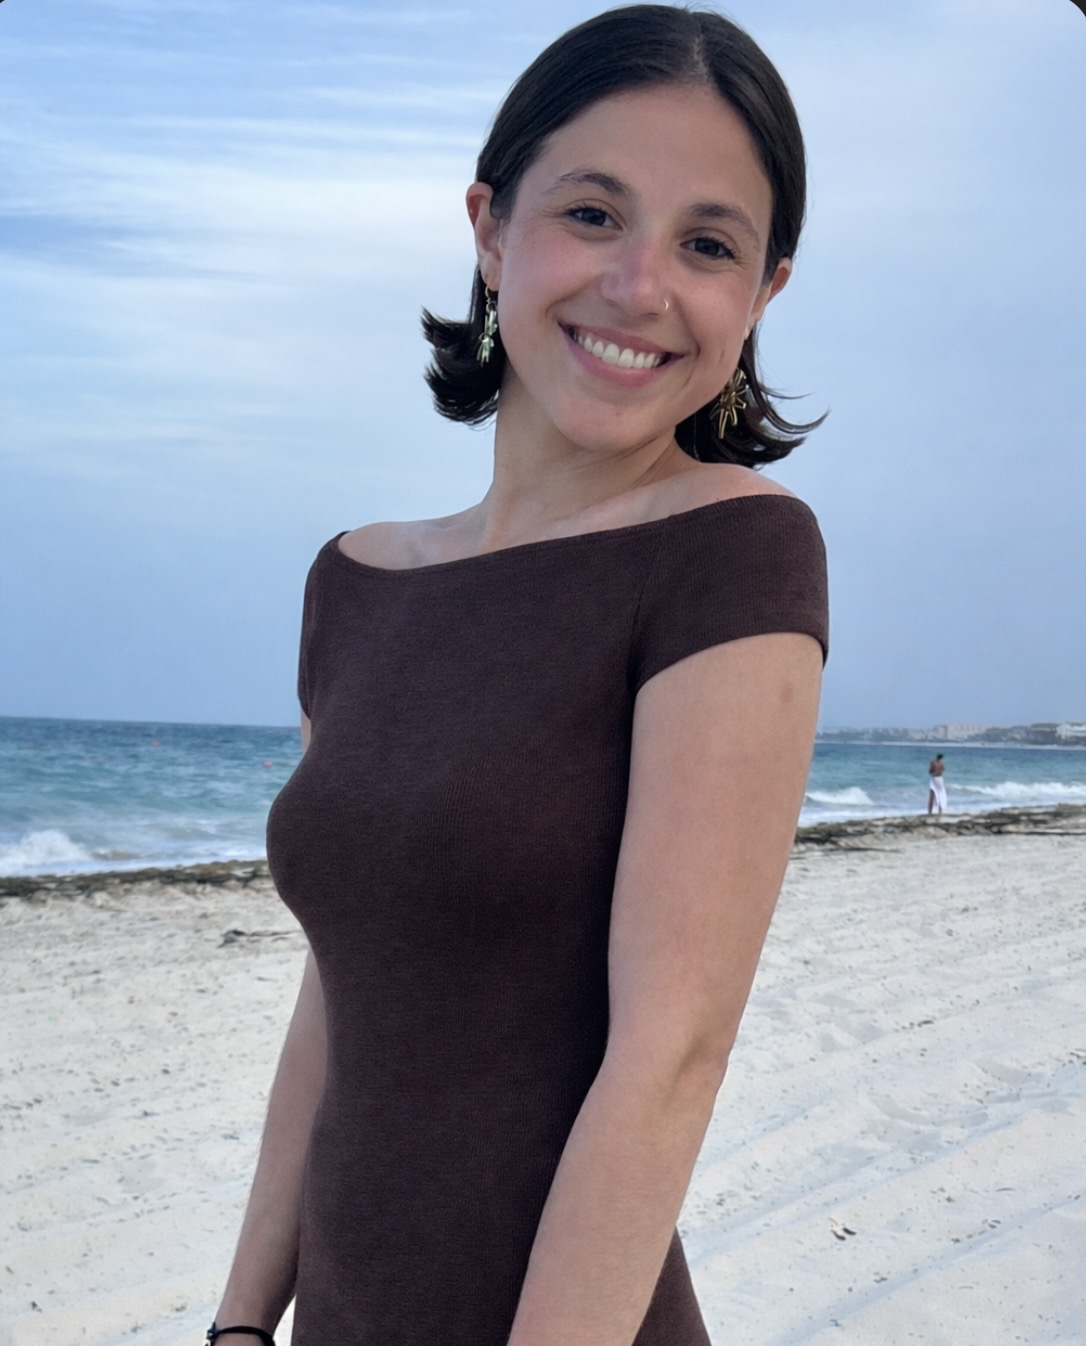
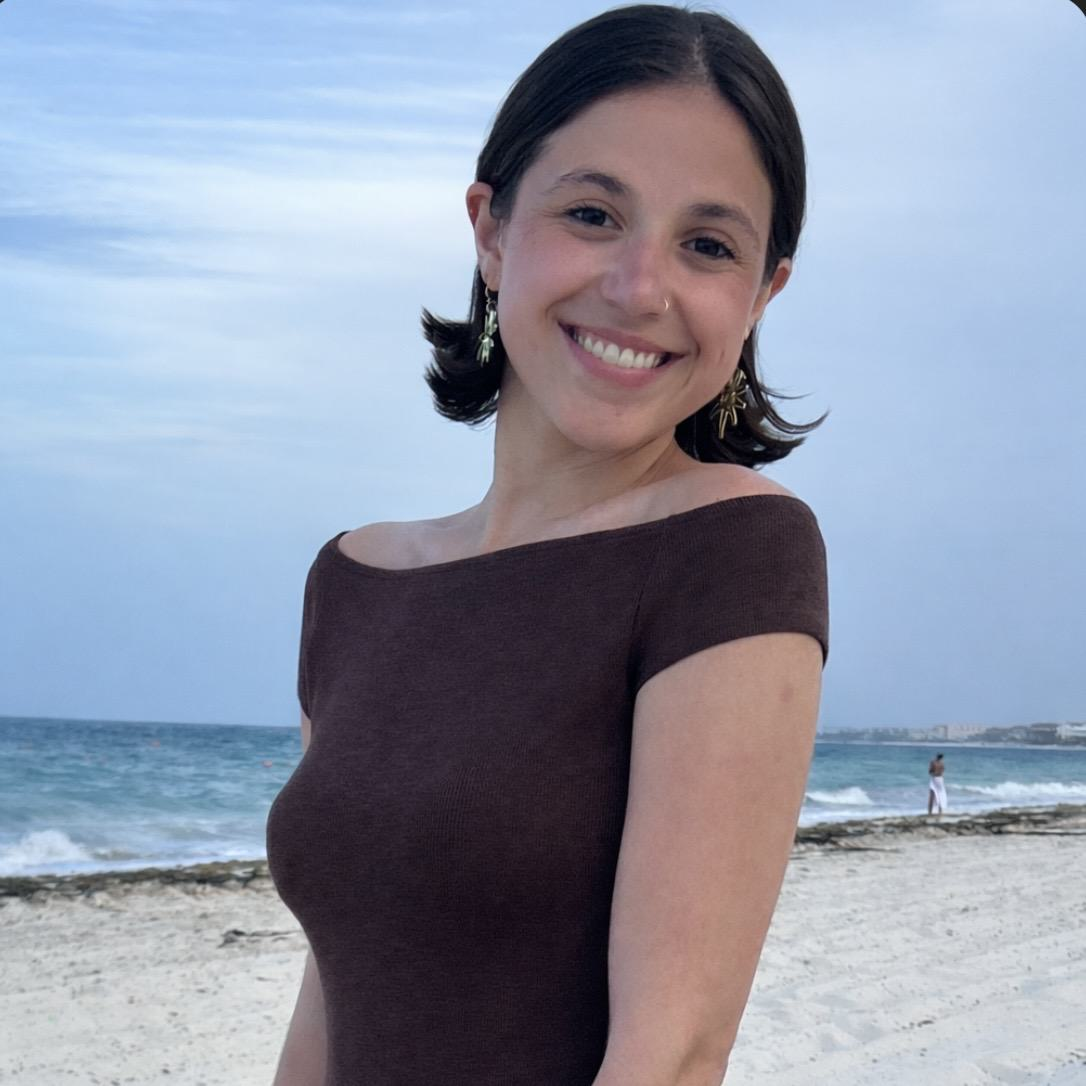
Update Eliana's class year, alphabetize RA section, crop Riley's headshot

diff --git a/people/index.html b/people/index.html
@@ -98,18 +98,11 @@
         <p>Curious about conducting scientific research? <a href="/join/">Join the Lab</a>.</p>
       </div>
       <div class="person-pi" style="margin-bottom: 2.5rem;">
-        <img src="../assets/images/eeller-headshot.jpeg" alt="Eliana Eller">
+        <img src="../assets/images/rbrenczewski-headshot.jpg" alt="Riley Brenczewski">
         <div class="person-info">
-          <h3>Eliana Eller</h3>
-          <p class="person-title">Undergraduate Student &middot; Junior</p>
-          <p>Eliana is a junior majoring in Psychology with a minor in Sociology. She is deeply interested in forensic psychology, specifically focusing on how nonverbal communication, facial expressions, and emotional data can inform behavioral assessment and clinical interventions. Outside of the lab, she enjoys running, weightlifting, and hanging out with her friends.</p>
-        </div>
-      </div>
-      <div class="person-pi" style="margin-bottom: 2.5rem;">
-        <img src="../assets/images/kstinson-headshot.jpeg" alt="Katie Stinson">
-        <div class="person-info">
-          <h3>Katie Stinson</h3>
-          <p class="person-title">Undergraduate Student &middot; Junior</p>
+          <h3>Riley Brenczewski</h3>
+          <p class="person-title">Undergraduate Student &middot; Senior</p>
+          <p>Riley is a senior majoring in Psychology with a minor in Sociology. She is interested in focusing on Social Psychology, particularly how intrinsic character traits and actions influence the ways in which individuals perceive, interact with, and treat one another within their social environments. Outside the lab, she enjoys reading, traveling, and spending time with her cat.</p>
         </div>
       </div>
       <div class="person-pi" style="margin-bottom: 2.5rem;">
@@ -120,12 +113,19 @@
           <p>Ella is a junior majoring in Psychology on the Pre-Medicine track. She loves to learn about social and evolutionary psychology. She's especially interested in how people synchronize with one another in social settings, and how our social lives impact our mental and physical health. Ella also enjoys reading, painting, traveling, and hiking with friends.</p>
         </div>
       </div>
-      <div class="person-pi">
-        <img src="../assets/images/rbrenczewski-headshot.jpg" alt="Riley Brenczewski">
+      <div class="person-pi" style="margin-bottom: 2.5rem;">
+        <img src="../assets/images/eeller-headshot.jpeg" alt="Eliana Eller">
         <div class="person-info">
-          <h3>Riley Brenczewski</h3>
+          <h3>Eliana Eller</h3>
           <p class="person-title">Undergraduate Student &middot; Senior</p>
-          <p>Riley is a senior majoring in Psychology with a minor in Sociology. She is interested in focusing on Social Psychology, particularly how intrinsic character traits and actions influence the ways in which individuals perceive, interact with, and treat one another within their social environments. Outside the lab, she enjoys reading, traveling, and spending time with her cat.</p>
+          <p>Eliana is a senior majoring in Psychology with a minor in Sociology. She is deeply interested in forensic psychology, specifically focusing on how nonverbal communication, facial expressions, and emotional data can inform behavioral assessment and clinical interventions. Outside of the lab, she enjoys running, weightlifting, and hanging out with her friends.</p>
+        </div>
+      </div>
+      <div class="person-pi">
+        <img src="../assets/images/kstinson-headshot.jpeg" alt="Katie Stinson">
+        <div class="person-info">
+          <h3>Katie Stinson</h3>
+          <p class="person-title">Undergraduate Student &middot; Junior</p>
         </div>
       </div>
     </div>
